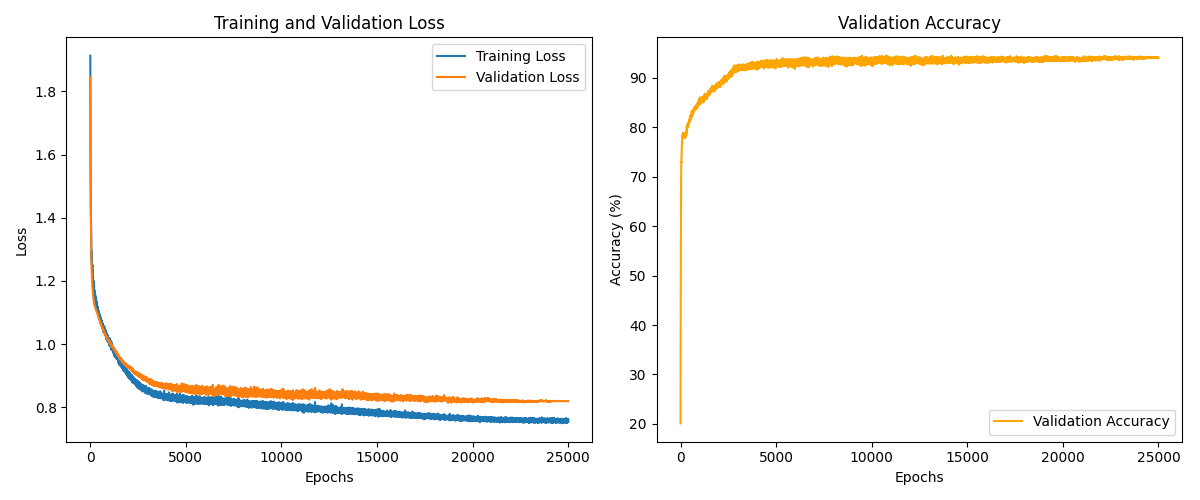
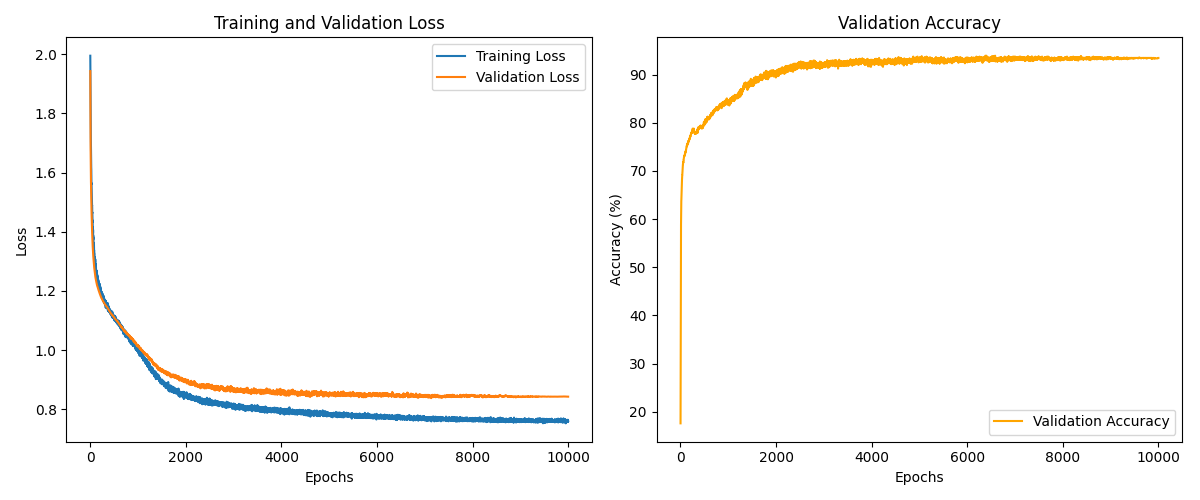
Restructured the project, and moved files to improve organization. Improved the training and evaluation functions. Streamlined usage of data preprocessing, training and evaluation into main.py.

diff --git a/main.py b/main.py
@@ -1,0 +1,17 @@
+from src import generate_split_data, train_from_config, test_model
+import argparse  
+
+if __name__ == "__main__":
+    parser = argparse.ArgumentParser()
+    parser.add_argument('--preprocess', type=bool, default=False, help='Whether to preprocess the data, and generate splits')
+    args = parser.parse_args()
+
+    if args.preprocess:
+        # Preprocess the data
+        generate_split_data()
+
+    # Train the model
+    train_from_config() 
+
+    # Evaluate the model
+    test_model() 

diff --git a/src/__init__.py b/src/__init__.py
@@ -1,2 +1,5 @@
 from .models import HAR_Model0, HAR_Model1, HAR_ModelDeepAdjst
 from .har_dataset import HAR_Dataset
+from .preprocess_data import generate_split_data
+from .train import train_from_config
+from .evaluate import test_model, plot_confusion_matrix

diff --git a/README.md b/README.md
@@ -3,7 +3,9 @@
 [![License: MIT](https://img.shields.io/badge/License-MIT-yellow.svg)](https://opensource.org/licenses/MIT)
 
 ## Overview
-This project implements an end-to-end pipeline for Human Activity Recognition (HAR) using the WISDM dataset. It includes data preprocessing and splitting, exploratory analysis, hyperparameter tuning (via Optuna), and training of a lightweight Multi-Layer Perceptron (MLP) achieving **93.81% test accuracy** with a 73K parameter model.
+This project implements an end-to-end pipeline for Human Activity Recognition (HAR) using the WISDM dataset. It includes data preprocessing and splitting, exploratory analysis, hyperparameter tuning (via Optuna), and training of a lightweight Multi-Layer Perceptron (MLP) achieving **94.33% test accuracy** with a 74K parameter model.
+
+**Despite running for 25,000 epochs, the model's small size (~74k parameters) allows it to train in just a few minutes on consumer-grade hardware, making experimentation highly accessible. The impact of changes in model architecture can be seen after training for only ~100-1000 epochs.**
 
 ## Key Features
 - Handles sparse ARFF format parsing without external Weka dependencies.
@@ -15,24 +17,54 @@ This project implements an end-to-end pipeline for Human Activity Recognition (H
 ## Results
 | Metric | Value | Original Paper Values |
 | :--- | :--- | :--- |
-| **Test Accuracy** | **93.81%** | 91.7% |
-| **Macro F1-Score** | 89.7% | --- |
-| **Weighted F1-Score** | 92.4% | --- |
-| **Model Parameters** | 72,454  (~0.3 MB) | --- |
+| **Test Accuracy** | **94.33%** | 91.7% |
+| **Macro F1-Score** | 90.7% | --- |
+| **Weighted F1-Score** | 93.2% | --- |
+| **Model Parameters** | 72,454  (~0.28 MB) | --- |
+
+## Methodology
+
+The WISDM dataset was split into training, validation, and test sets using a 60/20/20 stratified split to preserve the original class distribution across all subsets. 
+
+The model architecture is a lightweight Multi-Layer Perceptron (MLP) with three hidden layers. To mitigate overfitting, dropout layers and L2 weight decay were incorporated. The hyperparameters (learning rate, dropout rate, hidden layer sizes, and weight decay coefficient) were optimized using Optuna to maximize validation accuracy.
+
+### Training Dynamics & Convergence
+An interesting empirical observation emerged during training: the model exhibited a **slow but steady decrease in validation loss** well beyond the typical convergence point. While initial tests suggested 5,000 epochs as a practical cutoff, extending training to **25,000 epochs** yielded a **~4% absolute improvement in test accuracy**—from 90.19% to the final 94.33%—without any signs of overfitting (training and validation losses continued to decrease in tandem), despite reaching a decreased rate of improvement beyond 1k epochs.
+
+Attempts to accelerate convergence by increasing the learning rate proved destabilizing, and the inclusion of batch or layer normalization did not mitigate this instability. This suggests that the optimization landscape for this specific architecture and dataset is particularly flat, requiring a high number of gradient steps to reach a flatter minimum. The final model checkpoint was selected as the one achieving the lowest validation loss after 25,000 epochs.
+
+<h4>500 Epochs</h4>
+<img src="plots/training_plot_500epochs.png" height="200">
+
+<h4>5,000 Epochs</h4>
+<img src="plots/training_plot_5000epochs.png" height="200">
+
+<h4>25,000 Epochs</h4>
+<img src="plots/training_plot_25000epochs.png" height="200">
+
+## Interpretation
+The model fit to the training data, while maintaining good generalization across unseen examples.
+The model had difficulty distinguishing stationary activities (i.e. Sitting and Standing) having only ~70% accuracy.
+Remaining activities, that required much more intense and specific movements, had all accuracies **>98%**
+Increasing the model size and depth gave marginal improvements in accuracies, while extending the length of the training gave a  small but steady gains. 
 
 ![Normalized Confusion Matrix](plots/confusion_matrix.png)
 
 > **Note:** While state-of-the-art (SOTA) on WISDM reaches ~99%, this project focuses on delivering a clean, reproducible, and lightweight baseline suitable for resource-constrained devices, serving as a strong foundation for further experimentation.
 
+## Future Work
+- Experiment with different model architectures.
+- Implement data augmentation.
+- Improve LR scheduling, increasing minimal LR to improve performance in long runs.
+
 ## Installation & Usage
 1. Clone the repository:
    ```bash
-   git clone https://github.com/yourusername/human-activity-recognition.git
+   git clone https://github.com/metalCrate/WISDM-HAR.git
    cd human-activity-recognition
 2. pip install -r requirements.txt
-3. python src/preprocessing.py
-4. python train.py
-5. python evaluate.py
+3. Download the dataset from https://www.cis.fordham.edu/wisdm/dataset.php. Put in data/raw so that the final directory looks like: data/raw/WISDM_ar_v1.1/...
+4. python main.py
 
 ## Citation
 